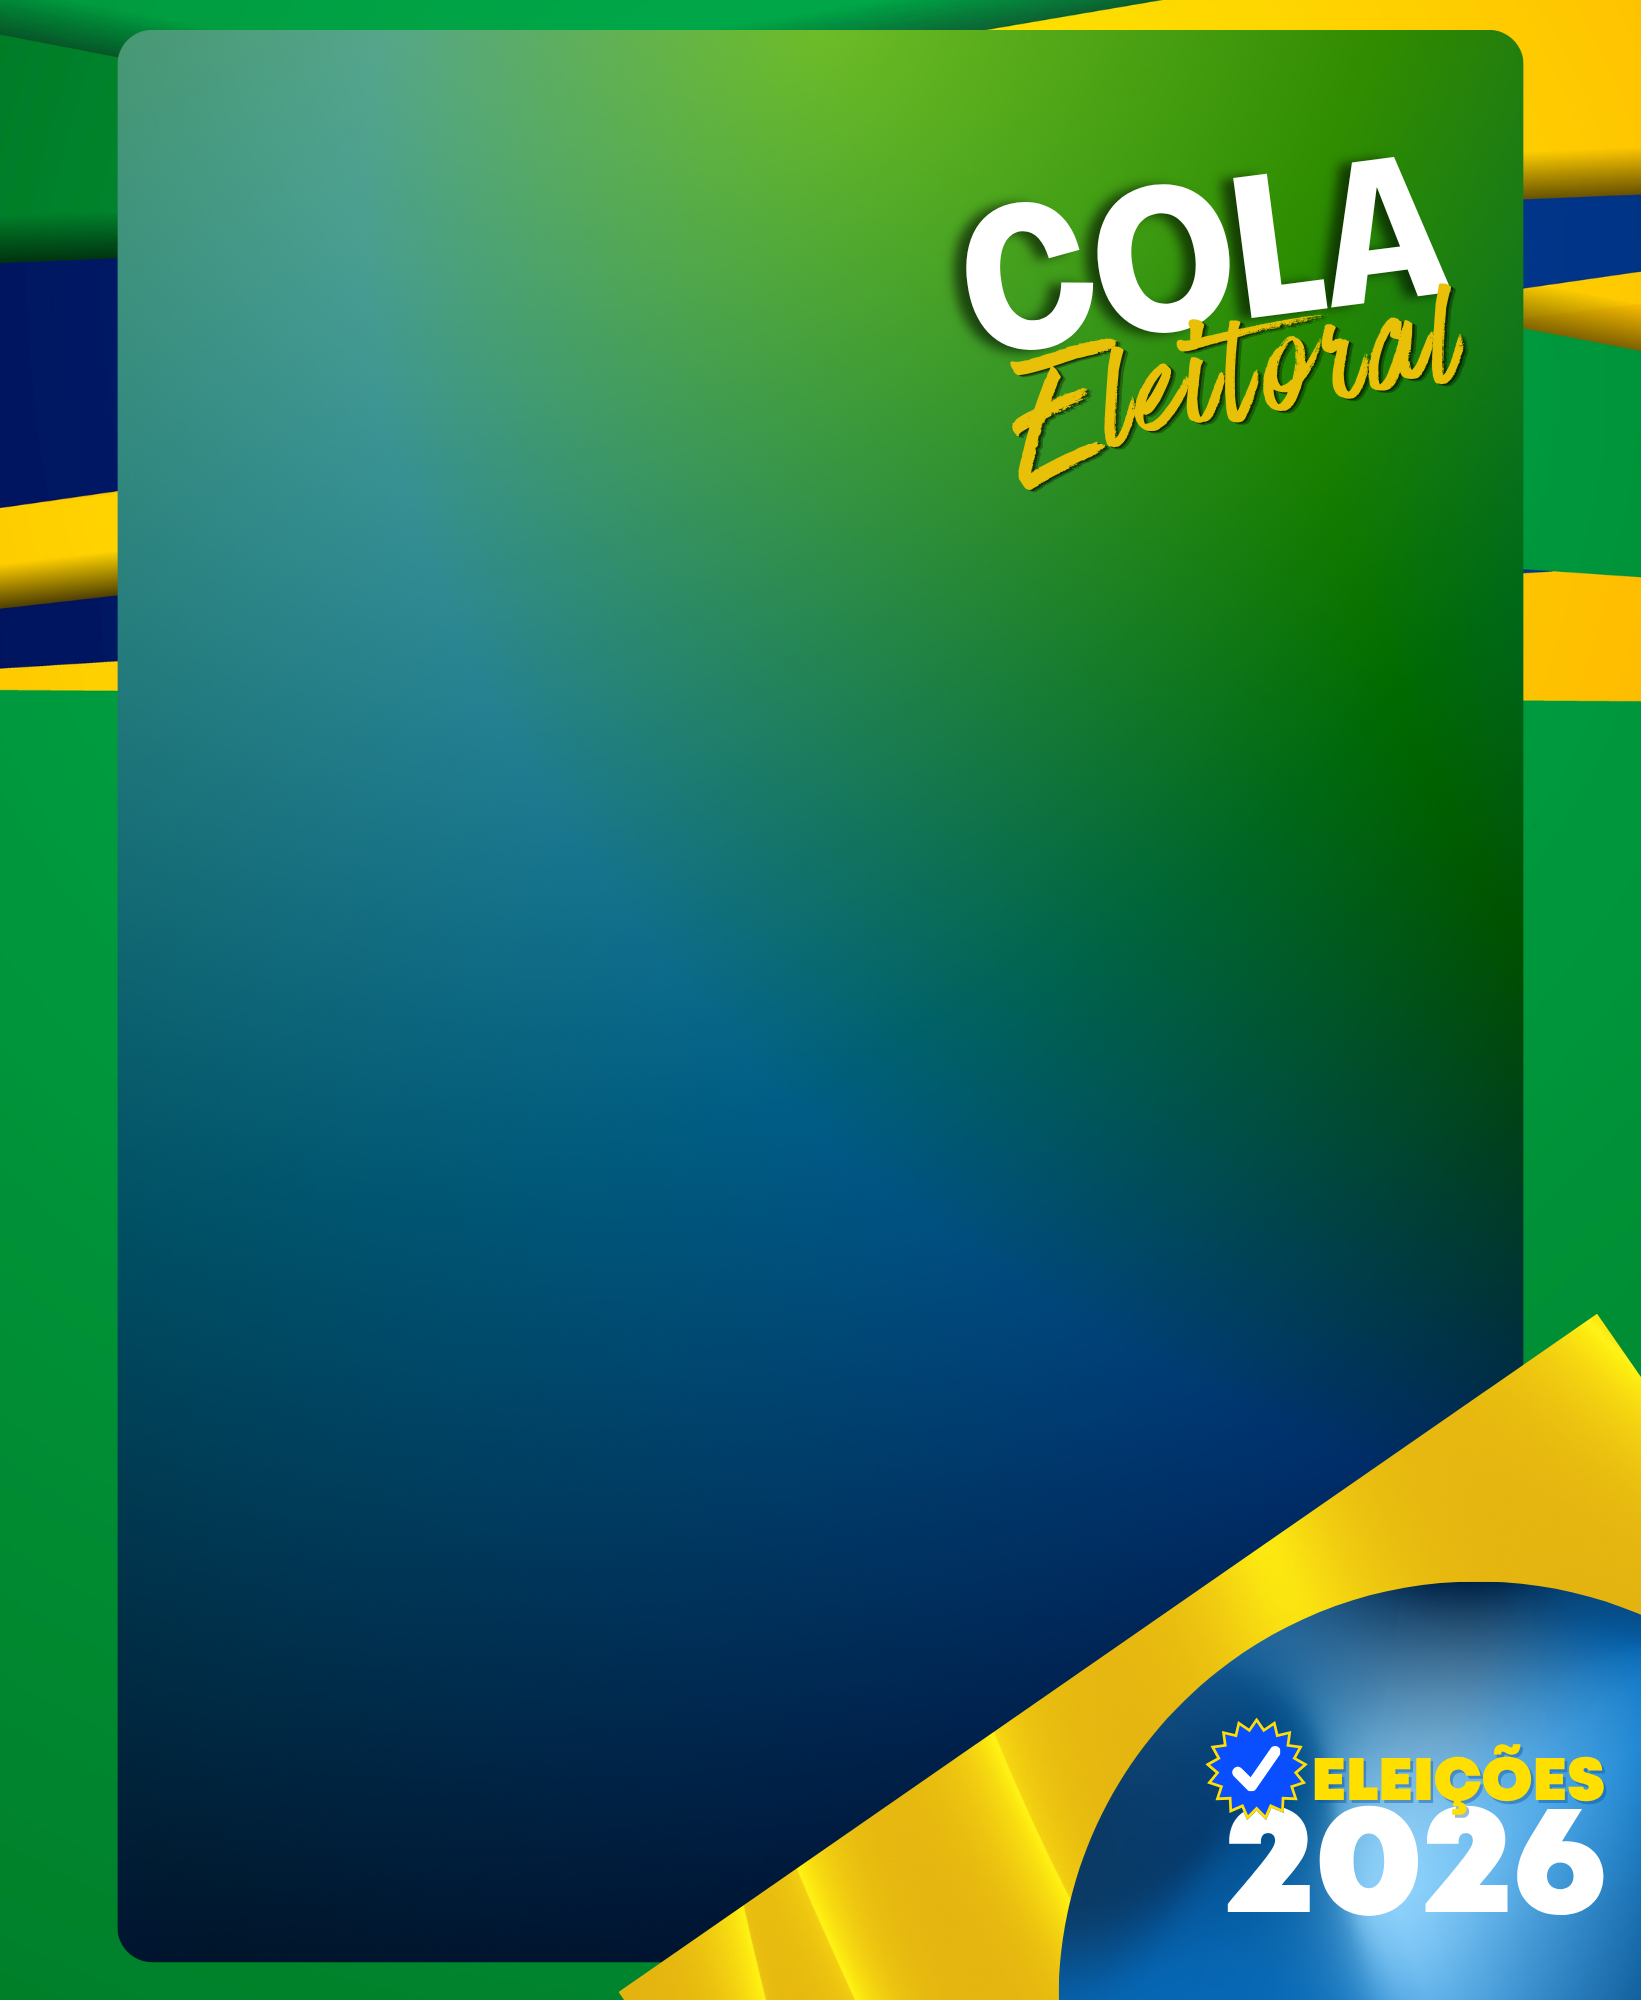
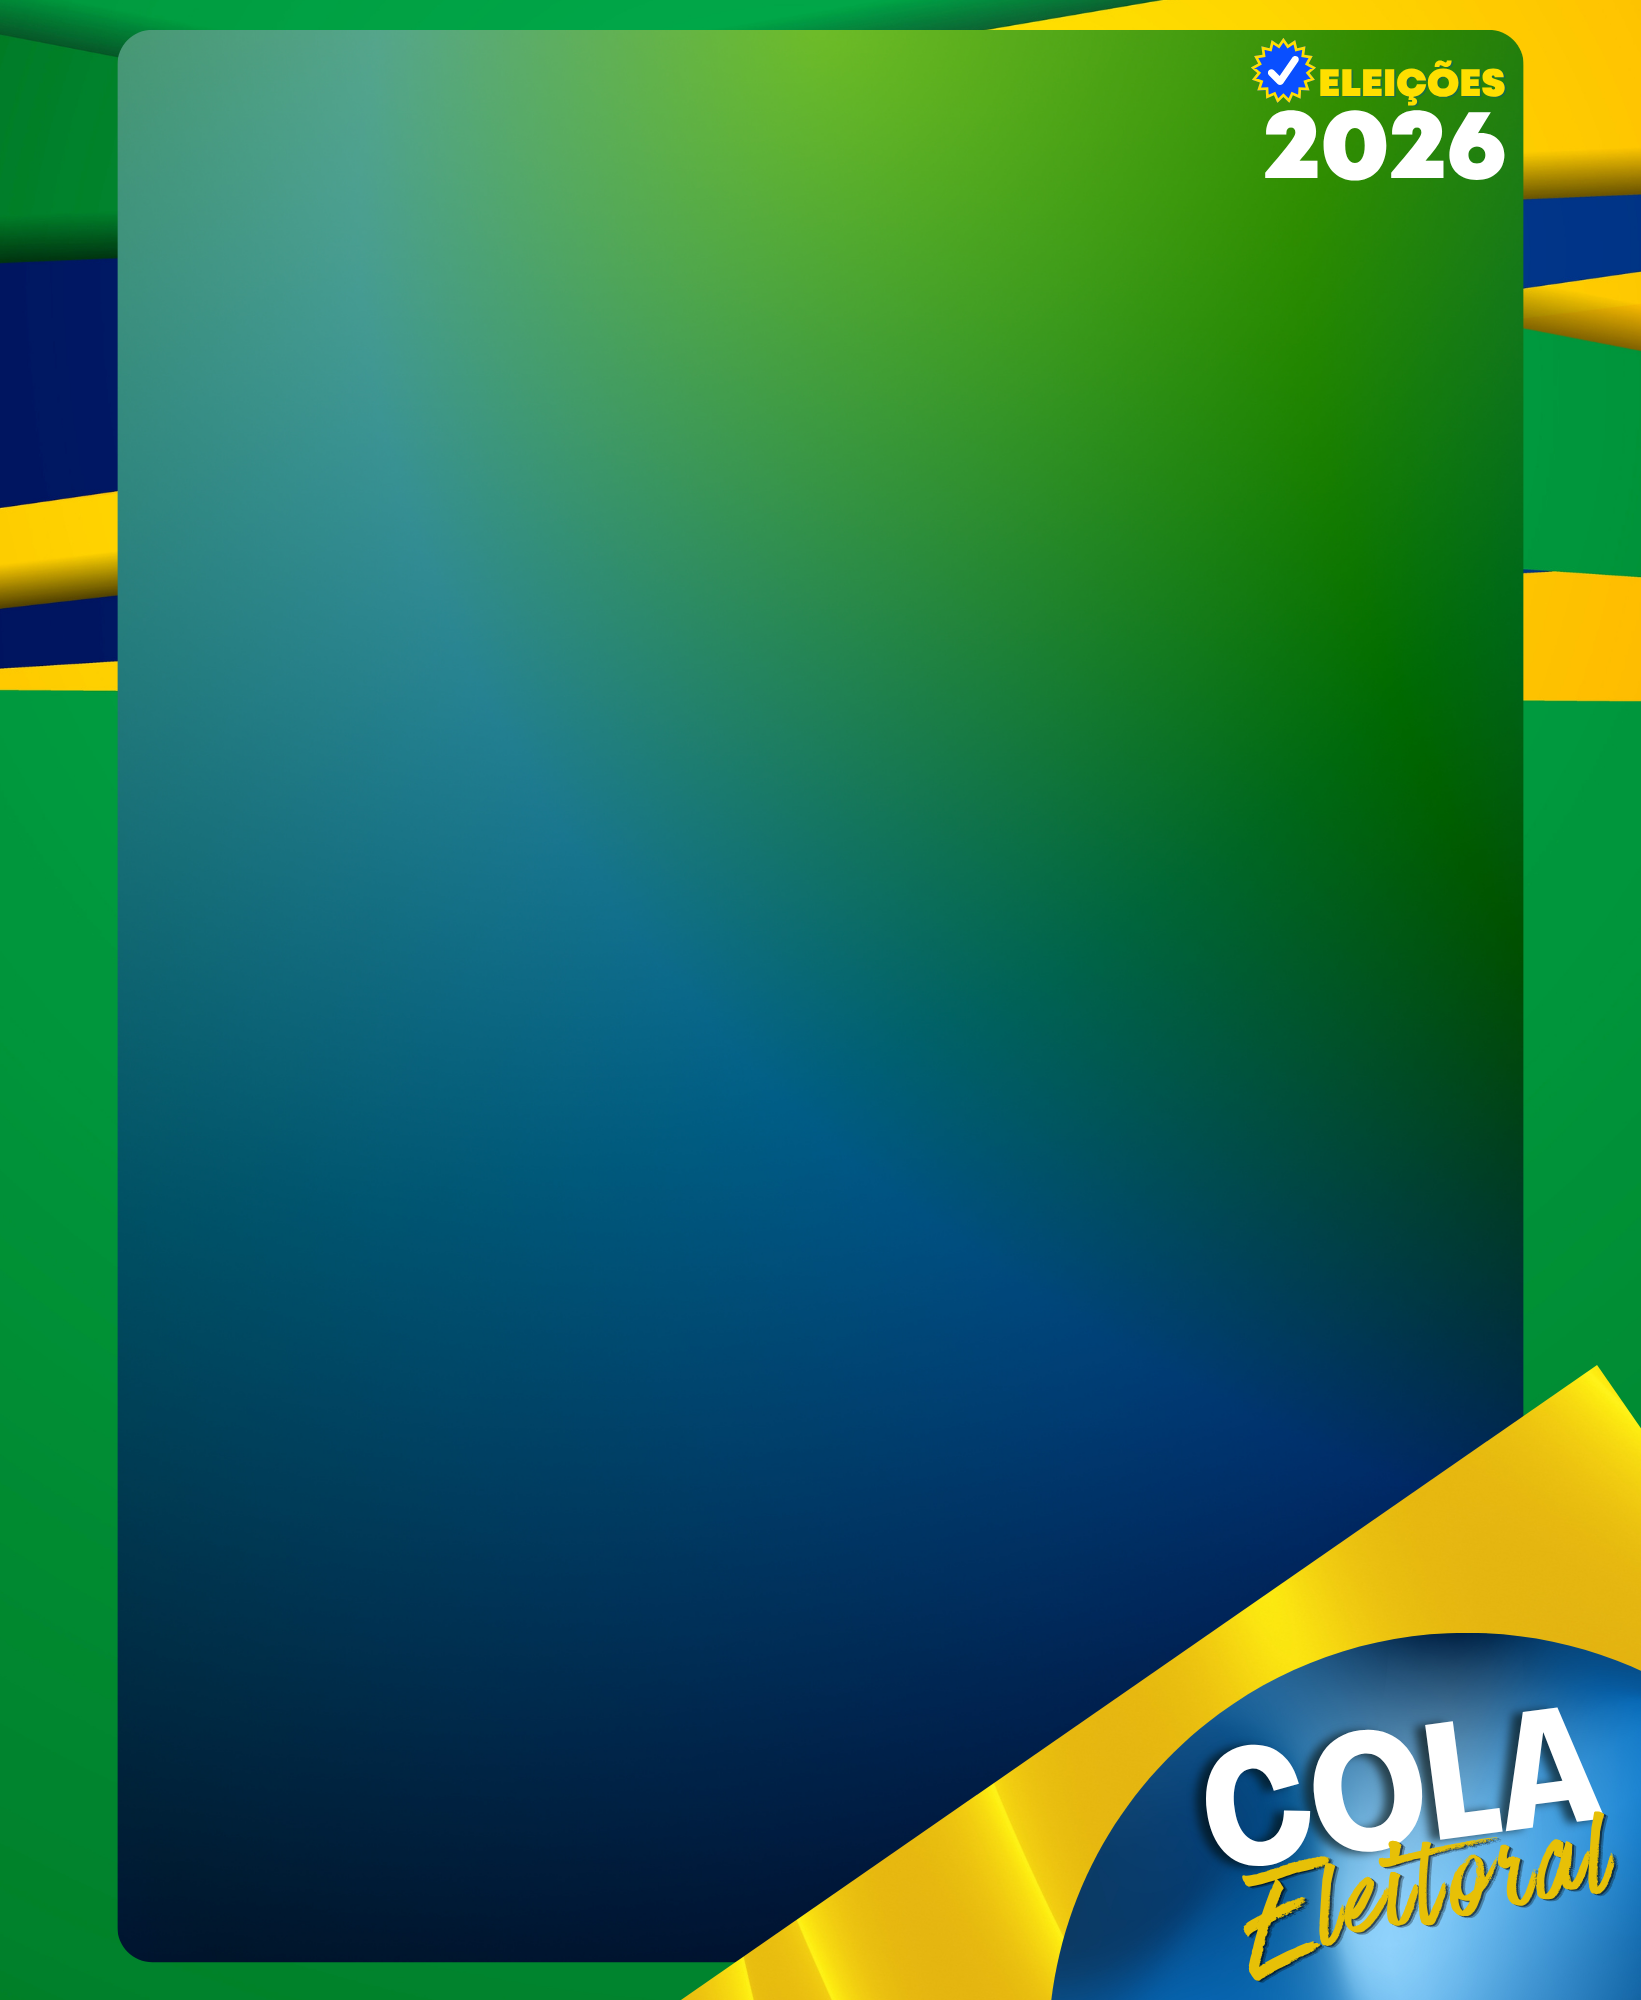
Correções

Changed region(s): [[0.3729, 0.651, 1.0, 1.0], [0.5594, 0.0, 0.9324, 0.248]]

diff --git a/src/app/page.tsx b/src/app/page.tsx
@@ -4173,8 +4173,8 @@ export default function Home() {
 
         .cola-modelo-estado {
           position: absolute;
-          top: 330px;
-          right: 184px;
+          top: 128px;
+          right: 78px;
           display: flex;
           width: 150px;
           height: 76px;
@@ -4216,27 +4216,27 @@ export default function Home() {
 
         .cola-modelo-lista {
           position: absolute;
-          top: 30px;
-          bottom: 52px;
-          left: 112px;
+          top: 48px;
+          bottom: 88px;
+          left: 104px;
           display: grid;
-          width: 660px;
+          width: 770px;
           grid-template-rows: repeat(6, minmax(0, 1fr));
-          gap: 5px;
+          gap: 3px;
         }
 
         .cola-modelo-linha {
           display: grid;
           min-width: 0;
-          grid-template-columns: 132px minmax(0, 1fr);
+          grid-template-columns: 142px minmax(0, 1fr);
           align-items: center;
-          gap: 18px;
+          gap: 20px;
         }
 
         .cola-modelo-foto {
           display: grid;
-          width: 122px;
-          height: 122px;
+          width: 132px;
+          height: 132px;
           place-items: center;
           overflow: hidden;
           border: 4px solid rgba(255, 255, 255, 0.96);
@@ -4281,11 +4281,11 @@ export default function Home() {
         .cola-modelo-informacoes > strong {
           display: block;
           overflow: hidden;
-          max-width: 500px;
+          max-width: 600px;
           margin-top: 5px;
           color: #f4cb08;
           font-family: "Brush Script MT", "Segoe Script", cursive;
-          font-size: 39px;
+          font-size: 40px;
           font-weight: 700;
           line-height: 1.03;
           text-shadow:
@@ -4298,7 +4298,7 @@ export default function Home() {
         .cola-modelo-informacoes > em {
           min-height: 15px;
           color: rgba(255, 255, 255, 0.9);
-          font-size: 14px;
+          font-size: 15px;
           font-style: normal;
           font-weight: 800;
           line-height: 1;
@@ -4308,21 +4308,21 @@ export default function Home() {
 
         .cola-modelo-digitos {
           display: flex;
-          margin-top: 6px;
-          gap: 8px;
+          margin-top: 8px;
+          gap: 9px;
         }
 
         .cola-modelo-digitos i {
           display: grid;
-          width: 56px;
-          height: 58px;
+          width: 64px;
+          height: 66px;
           place-items: center;
           border: 2px solid rgba(255, 255, 255, 0.94);
           border-radius: 11px;
           background: rgba(255, 255, 255, 0.97);
           color: #071a17;
           font-family: Arial, sans-serif;
-          font-size: 38px;
+          font-size: 45px;
           font-style: normal;
           font-weight: 900;
           line-height: 1;
@@ -4463,10 +4463,10 @@ export default function Home() {
         }
 
         .folha-a4-preview .cola-miniatura-estilizada .numero-em-caixas i {
-          width: 7px;
-          height: 9px;
+          width: 8px;
+          height: 10px;
           border-radius: 1.5px;
-          font-size: 5px;
+          font-size: 6px;
           border-width: 0.5px;
           box-shadow: none;
         }
@@ -4475,9 +4475,9 @@ export default function Home() {
           .cola-miniatura-estilizada
           .numero-em-caixas
           i {
-          width: 11px;
-          height: 13px;
-          font-size: 7px;
+          width: 13px;
+          height: 15px;
+          font-size: 9px;
         }
 
         .resumo-formato-final .cola-candidato-vazio,
@@ -4605,9 +4605,9 @@ export default function Home() {
           .cola-miniatura-estilizada
           .numero-em-caixas
           i {
-          width: 8px !important;
-          height: 10px !important;
-          font-size: 5.5px !important;
+          width: 10px !important;
+          height: 12px !important;
+          font-size: 7px !important;
         }
 
         .folha-a4-preview.copias-4 .cola-miniatura-estilizada .cola-candidatos {
@@ -4653,9 +4653,9 @@ export default function Home() {
           .cola-miniatura-estilizada
           .numero-em-caixas
           i {
-          width: 12px !important;
-          height: 15px !important;
-          font-size: 8px !important;
+          width: 14px !important;
+          height: 17px !important;
+          font-size: 10px !important;
         }
 
         @media print {
@@ -5048,16 +5048,16 @@ export default function Home() {
           }
 
           .folha-impressao-real.copias-9 .numero-em-caixas i {
-            width: 2.7mm;
-            height: 3.3mm;
-            font-size: 5pt;
+            width: 3.1mm;
+            height: 4mm;
+            font-size: 6pt;
           }
 
           .folha-impressao-real.copias-4 .numero-em-caixas i {
-            width: 4.7mm;
-            height: 5.7mm;
+            width: 5.7mm;
+            height: 7mm;
             border-radius: 1mm;
-            font-size: 8.5pt;
+            font-size: 10.5pt;
           }
 
           .folha-impressao-real .digitos-preenchimento-manual i {
@@ -5155,9 +5155,9 @@ export default function Home() {
           }
 
           .folha-impressao-real.copias-6 .numero-em-caixas i {
-            width: 3.6mm !important;
-            height: 4.6mm !important;
-            font-size: 6.5pt !important;
+            width: 4.1mm !important;
+            height: 5.2mm !important;
+            font-size: 7.5pt !important;
           }
 
           .folha-impressao-real.copias-4 .cola-candidatos {
@@ -5193,9 +5193,9 @@ export default function Home() {
           }
 
           .folha-impressao-real.copias-4 .numero-em-caixas i {
-            width: 5mm !important;
-            height: 6.2mm !important;
-            font-size: 9pt !important;
+            width: 5.7mm !important;
+            height: 7mm !important;
+            font-size: 10.5pt !important;
           }
 
           @page {
